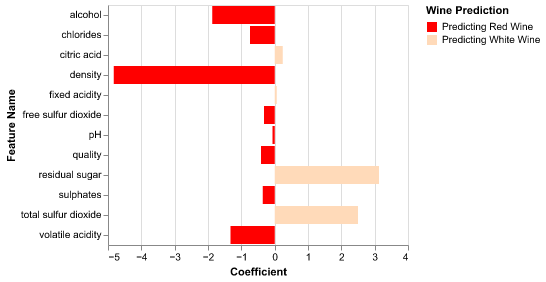
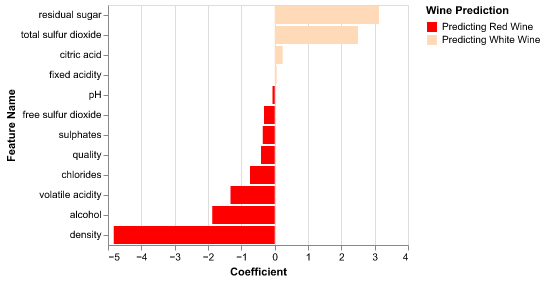
fix the sorted coef graph

diff --git a/src/wine_classification_plot.py b/src/wine_classification_plot.py
@@ -39,8 +39,8 @@ def create_wine_prediction_chart(dataframe, red_wine_color, white_wine_color):
 
     # Create the chart
     chart = alt.Chart(dataframe).mark_bar().encode(
-        x='Coefficient',
-        y='Feature Name',
+        x=alt.X('Coefficient'),
+        y=alt.Y('Feature Name').sort('-x'),
         color=alt.Color('Wine Prediction', 
                         legend=alt.Legend(title="Wine Prediction"), 
                         scale=alt.Scale(domain=['Predicting Red Wine', 'Predicting White Wine'], 

diff --git a/scripts/wine_classification_plot_script.py b/scripts/wine_classification_plot_script.py
@@ -86,8 +86,8 @@ def main(dataframe_csv, red_wine_color, white_wine_color, output_path):
 
     # Create the chart
     chart = alt.Chart(dataframe).mark_bar().encode(
-        x='Coefficient',
-        y='Feature Name',
+        x=alt.X('Coefficient'),
+        y=alt.Y('Feature Name').sort('-x'),
         color=alt.Color('Wine Prediction', 
                         legend=alt.Legend(title="Wine Prediction"), 
                         scale=alt.Scale(domain=['Predicting Red Wine', 'Predicting White Wine'], 
